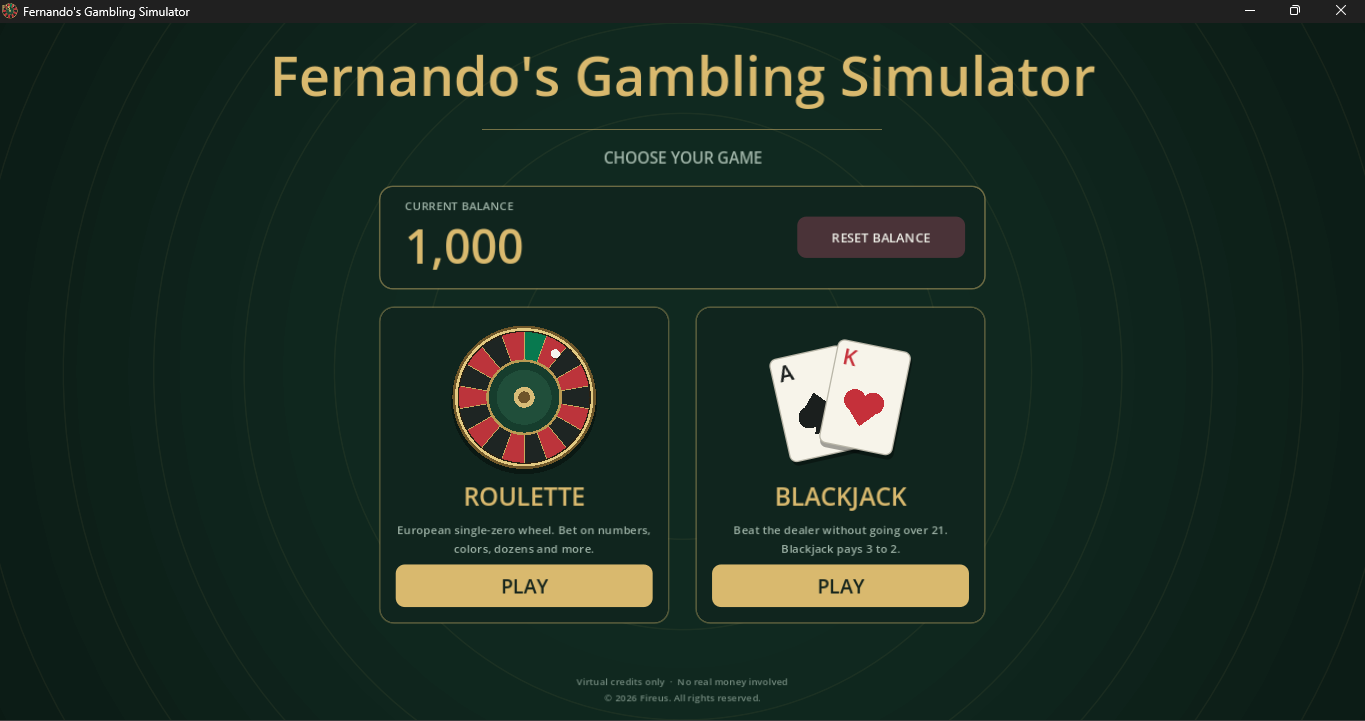
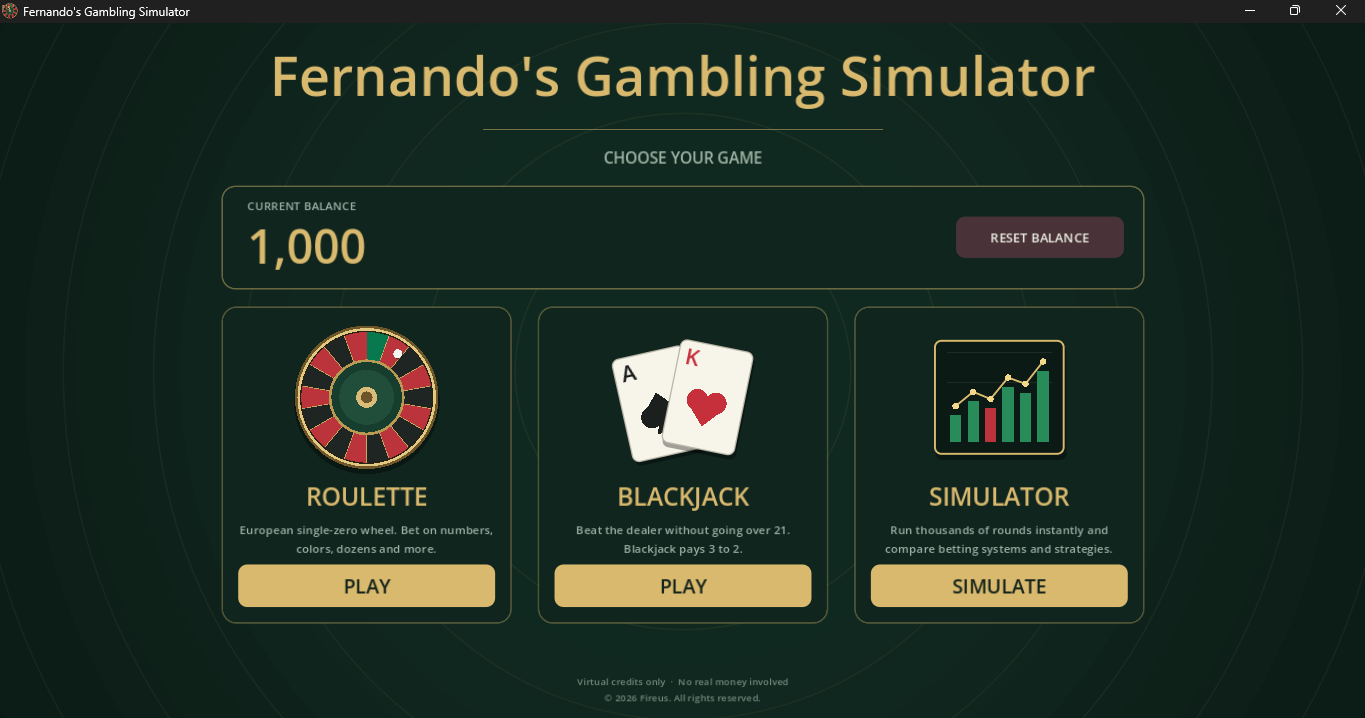
simu

diff --git a/fernandos-gambling-simulator.html b/fernandos-gambling-simulator.html
@@ -66,6 +66,17 @@
                 <p>Play Blackjack and test your luck against the dealer.</p>
             </div>
         </article>
+
+        <article class="dod-feature dod-feature--reverse">
+            <figure class="dod-feature__art">
+                <img src="images/fernandos/simu.png" alt="" loading="lazy">
+            </figure>
+            <div class="dod-feature__copy">
+                <h2>Long-term Simulator</h2>
+                <p>Simulate various gambling scenarios and test your strategies.</p>
+            </div>
+        </article>
+
     </section>
 
     <div class="section">
